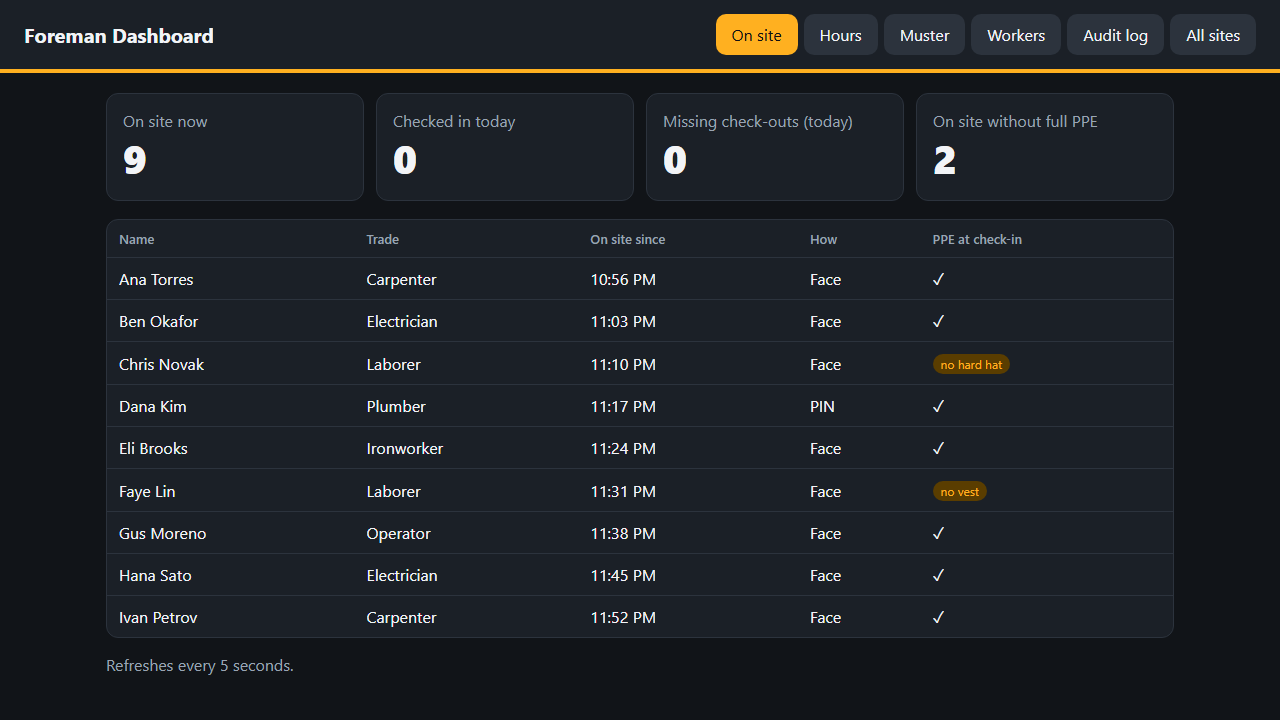
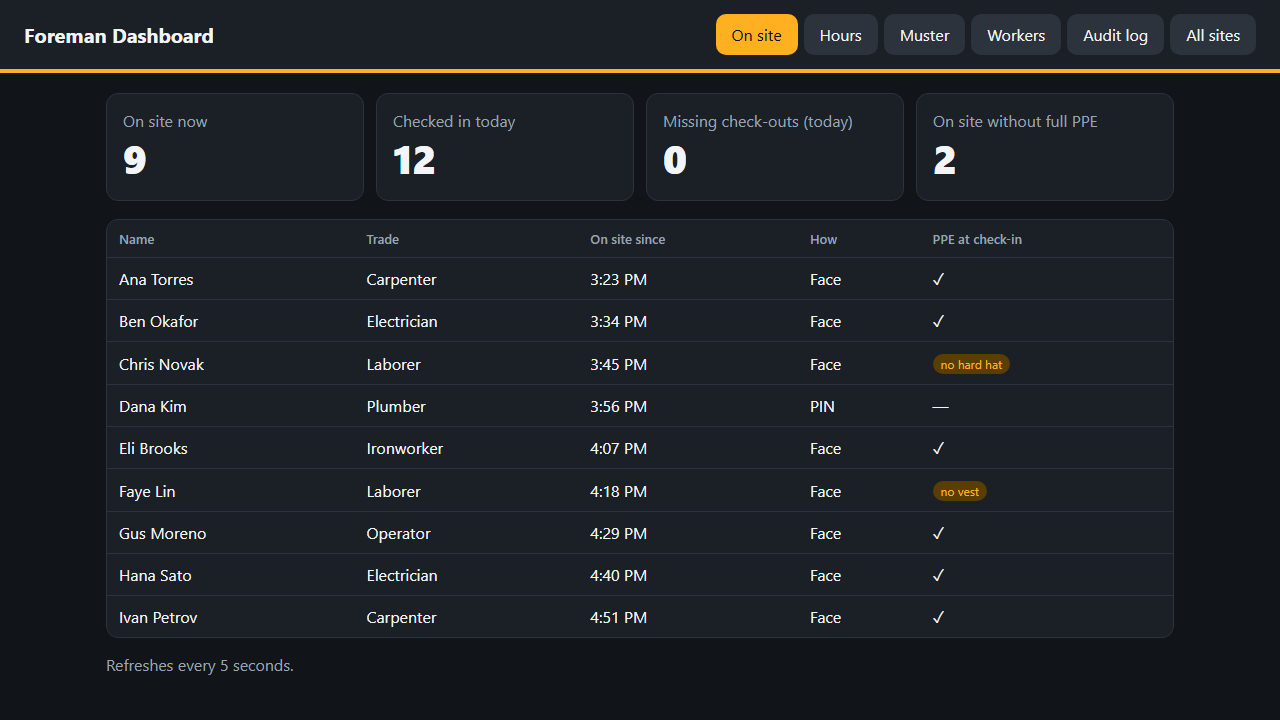
README: six screenshots, realistic mid-shift data, newest-first hours
- Screenshot grid adds the emergency muster and weekly hours screens
- Dashboard tour data is now a crew mid-shift whatever time it's built
  (was: 'checked in today 0' at night, double shifts in the evening)
- Hours tab lists the newest day first (names A-Z within a day)
- Drop the demo-video placeholder: screenshots are the demo

diff --git a/app/static/dashboard.js b/app/static/dashboard.js
@@ -83,7 +83,9 @@ $("hours-end").value = today();
 loaders.hours = async () => {
   const q = `start=${$("hours-start").value}&end=${$("hours-end").value}`;
   try {
-    const rows = await api(`/api/hours?${q}`);
+    // newest day first (what a foreman checks), names A–Z within a day
+    const rows = (await api(`/api/hours?${q}`))
+      .sort((a, b) => b.date.localeCompare(a.date) || a.name.localeCompare(b.name));
     fillTable($("hours-body"), rows, r => {
       const tr = document.createElement("tr");
       const notes = cell("");

diff --git a/scripts/make_demo_video.py b/scripts/make_demo_video.py
@@ -136,13 +136,21 @@ def fill_demo_database():
     seed_demo.main()
     db = Database()
     now = datetime.now()
-    on_site = {w["id"] for w in db.on_site_now(now)}
+    # Replace today's seeded history with a crew that is mid-shift right now, so the tour looks
+    # like a working day whatever time the script runs.
+    with db._conn() as c:
+        c.execute("DELETE FROM events WHERE ts >= ?", (now.strftime("%Y-%m-%d 00:00:00"),))
     workers = [w["id"] for w in db.list_workers()]
     ppe_for = {2: {"hard_hat": False, "vest": True}, 5: {"hard_hat": True, "vest": False}}
-    for i, wid in enumerate(workers[:9]):
-        if wid not in on_site:
-            db.record_scan(wid, "pin" if i == 3 else "face", 0.8, now=now - timedelta(minutes=95 - 7 * i),
-                           ppe=ppe_for.get(i, {"hard_hat": True, "vest": True}))
+    for i, wid in enumerate(workers[:9]):   # on site now, arrived 1-2.5 h ago
+        pin = i == 3                        # PIN check-ins have no camera frame, so no PPE check
+        db.record_scan(wid, "pin" if pin else "face", None if pin else 0.8, now=now - timedelta(minutes=150 - 11 * i),
+                       ppe=None if pin else ppe_for.get(i, {"hard_hat": True, "vest": True}))
+    for i, wid in enumerate(workers[9:]):   # came in early and already left
+        t_in = now - timedelta(hours=6, minutes=10 * i)
+        if t_in.date() == now.date():
+            db.record_scan(wid, "face", 0.8, now=t_in, ppe={"hard_hat": True, "vest": True})
+            db.record_scan(wid, "face", 0.8, now=now - timedelta(minutes=40 - 5 * i))
     mid = db.start_muster(now=now - timedelta(minutes=2))
     for wid in [e["worker_id"] for e in db.get_muster(mid)["entries"]][:5]:
         db.set_accounted(mid, wid, True, now=now - timedelta(minutes=1))
@@ -162,9 +170,9 @@ def dashboard_tour(port=8790) -> list[tuple[Path, str]]:
     if not exe:
         print("No Edge/Chrome found: skipping the dashboard tour")
         return []
-    if not 8 <= datetime.now().hour < 18:
-        print("Note: built outside working hours, so 'today' on the dashboard looks quiet. "
-              "Build during the day for the most realistic tour.")
+    if datetime.now().hour < 3:
+        print("Note: just after midnight the crew's check-ins fall on yesterday, so 'today' looks "
+              "quiet. Build after 3 AM for the most realistic tour.")
     import uvicorn
     from app import api
     db = fill_demo_database()

diff --git a/README.md b/README.md
@@ -6,11 +6,12 @@ accurate hours, and in an emergency the headcount is one click away.
 | Kiosk: liveness check | Kiosk: checked in, PPE warning |
 |---|---|
 | ![Kiosk asking the worker to turn their head left](docs/img/kiosk-turn.png) | ![Kiosk confirming check-in with a missing hard hat warning](docs/img/kiosk-ppe.png) |
-| **Dashboard: who's on site, with PPE** | **Dashboard: every site, synced from the field** |
-| ![Foreman dashboard listing workers on site with PPE flags](docs/img/dashboard-onsite.png) | ![Central dashboard showing two jobsites and who is on each](docs/img/dashboard-sites.png) |
+| **Dashboard: who's on site, with PPE** | **Emergency muster: one-click headcount** |
+| ![Foreman dashboard listing workers on site with PPE flags](docs/img/dashboard-onsite.png) | ![Muster roster with workers ticked off as accounted for](docs/img/dashboard-muster.png) |
+| **Weekly hours, CSV export for payroll** | **Every site, synced from the field** |
+| ![Hours per worker per day with an export button](docs/img/dashboard-hours.png) | ![Central dashboard showing two jobsites and who is on each](docs/img/dashboard-sites.png) |
 
 *Screenshots use made-up workers with no face data.*
-<!-- Demo video: add the link here once recorded (see docs/DEMO_SCRIPT.md) -->
 
 ## The problem
 
